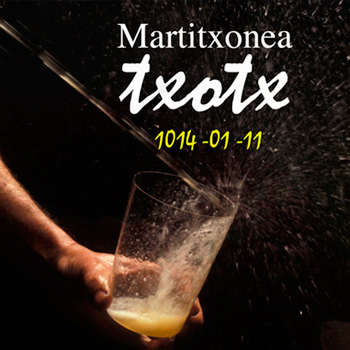
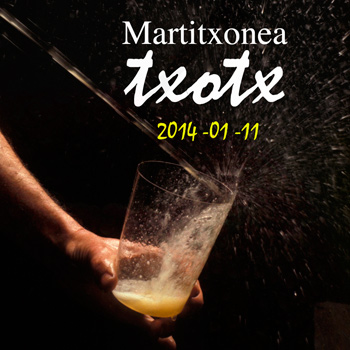
zuzenketak: testua + irudia

diff --git a/index-1.html b/index-1.html
@@ -106,7 +106,7 @@
               <li class="span4">
             <div class="thumbnail thumbnail-1"> <img  src="img/page2-img1.jpg" alt="">
                   <section> <a href="#" class="link-1">Ongi etorri Txotx!! </a>
-                <p>Txotx garaia.  Martitxonea sagardotegia 2014ko urtarrilaren hamaikean irekiko da. Zuen zain izango gaituzue!!
+                <p>Txotx garaia. Martitxonea sagardotegia <strong>2014ko urtarrilaren hamaikean</strong> irekiko da. Zuen zain izango gaituzue!!
                 <br><strong>Martitxonea Sagardotegiak 80-100 mahaikideentzat</strong> tokia du eta bertan txotxaren errituala eta sagardotegiko menua gozatzeko aukera dago.</p>
               </section>
                 </div>
@@ -114,7 +114,7 @@
               <li class="span4">
             <div class="thumbnail thumbnail-1"> <img  src="img/page2-img2.jpg" alt="">
                   <section> <a href="#" class="link-1">Sagardotegiko menua</a>
-                <p>Bakailu tortila, Txuleta,<br> Gazta menbilo eta intxaurrak<br> eta nahi adina sagardo!!<br>Martitxonea Sagardotegiak 80-100 mahaikideentzat tokia du.
+                <p>Bakailu tortila, Txuleta,<br> Gazta menbrilo eta intxaurrak<br> eta nahi adina sagardo!!<br>Martitxonea Sagardotegiak 80-100 mahaikideentzat tokia du.
                 Txotx garaiaz gain, ospakizun pribatu edo enpresako afari nahiz bazkarietako ere prestatutako txoko zoragarria eskaintzen dizue Martitxonea sagardotegiak. </p>
               </section>
                 </div>
@@ -122,7 +122,7 @@
               <li class="span4">
             <div class="thumbnail thumbnail-1"> <img  src="img/page2-img3.jpg" alt="">
                   <section> <a href="#" class="link-1">Sagardoa salgai</a>
-                <p>Gure sagardoa dastatu nahi baduzu, deitu <strong><a href="tel:+34948604607">948 604 607</a></strong> telefonora edo bestela "harremana" izaneko atalean egin eskaera.
+                <p>Gure sagardoa dastatu nahi baduzu, deitu <strong><a href="tel:+34948604607">948 604 607</a></strong> telefonora.<br>
                 Urteko edozein garaitan bai jatetxe, almazen edo partikularrei saltzen diegu 3, 6 edo 12 botilako kaxetan.</p>
               </section>
                 </div>

diff --git a/index.html b/index.html
@@ -168,7 +168,7 @@
                 <h3>Sagardoa salgai</h3>
                 <img  src="img/page1-img2.jpg" alt="">
                 <section> <strong>12 boteila dituen kaxa</strong>
-                      <p>Urteko edozein garaitan bai jatetxe, almazen edo partikularrei saltzen diegu 3, 6 edo 12 botilako kaxetan.</p>
+                      <p>Urteko edozein garaitan bai jatetxe, almazen edo partikularrei saltzen diegu 3 edo 12 botilako kaxetan.</p>
                       <!--<a href="#" class="btn btn-1">Erosi</a>--> </section>
               </div>
                 </li>
